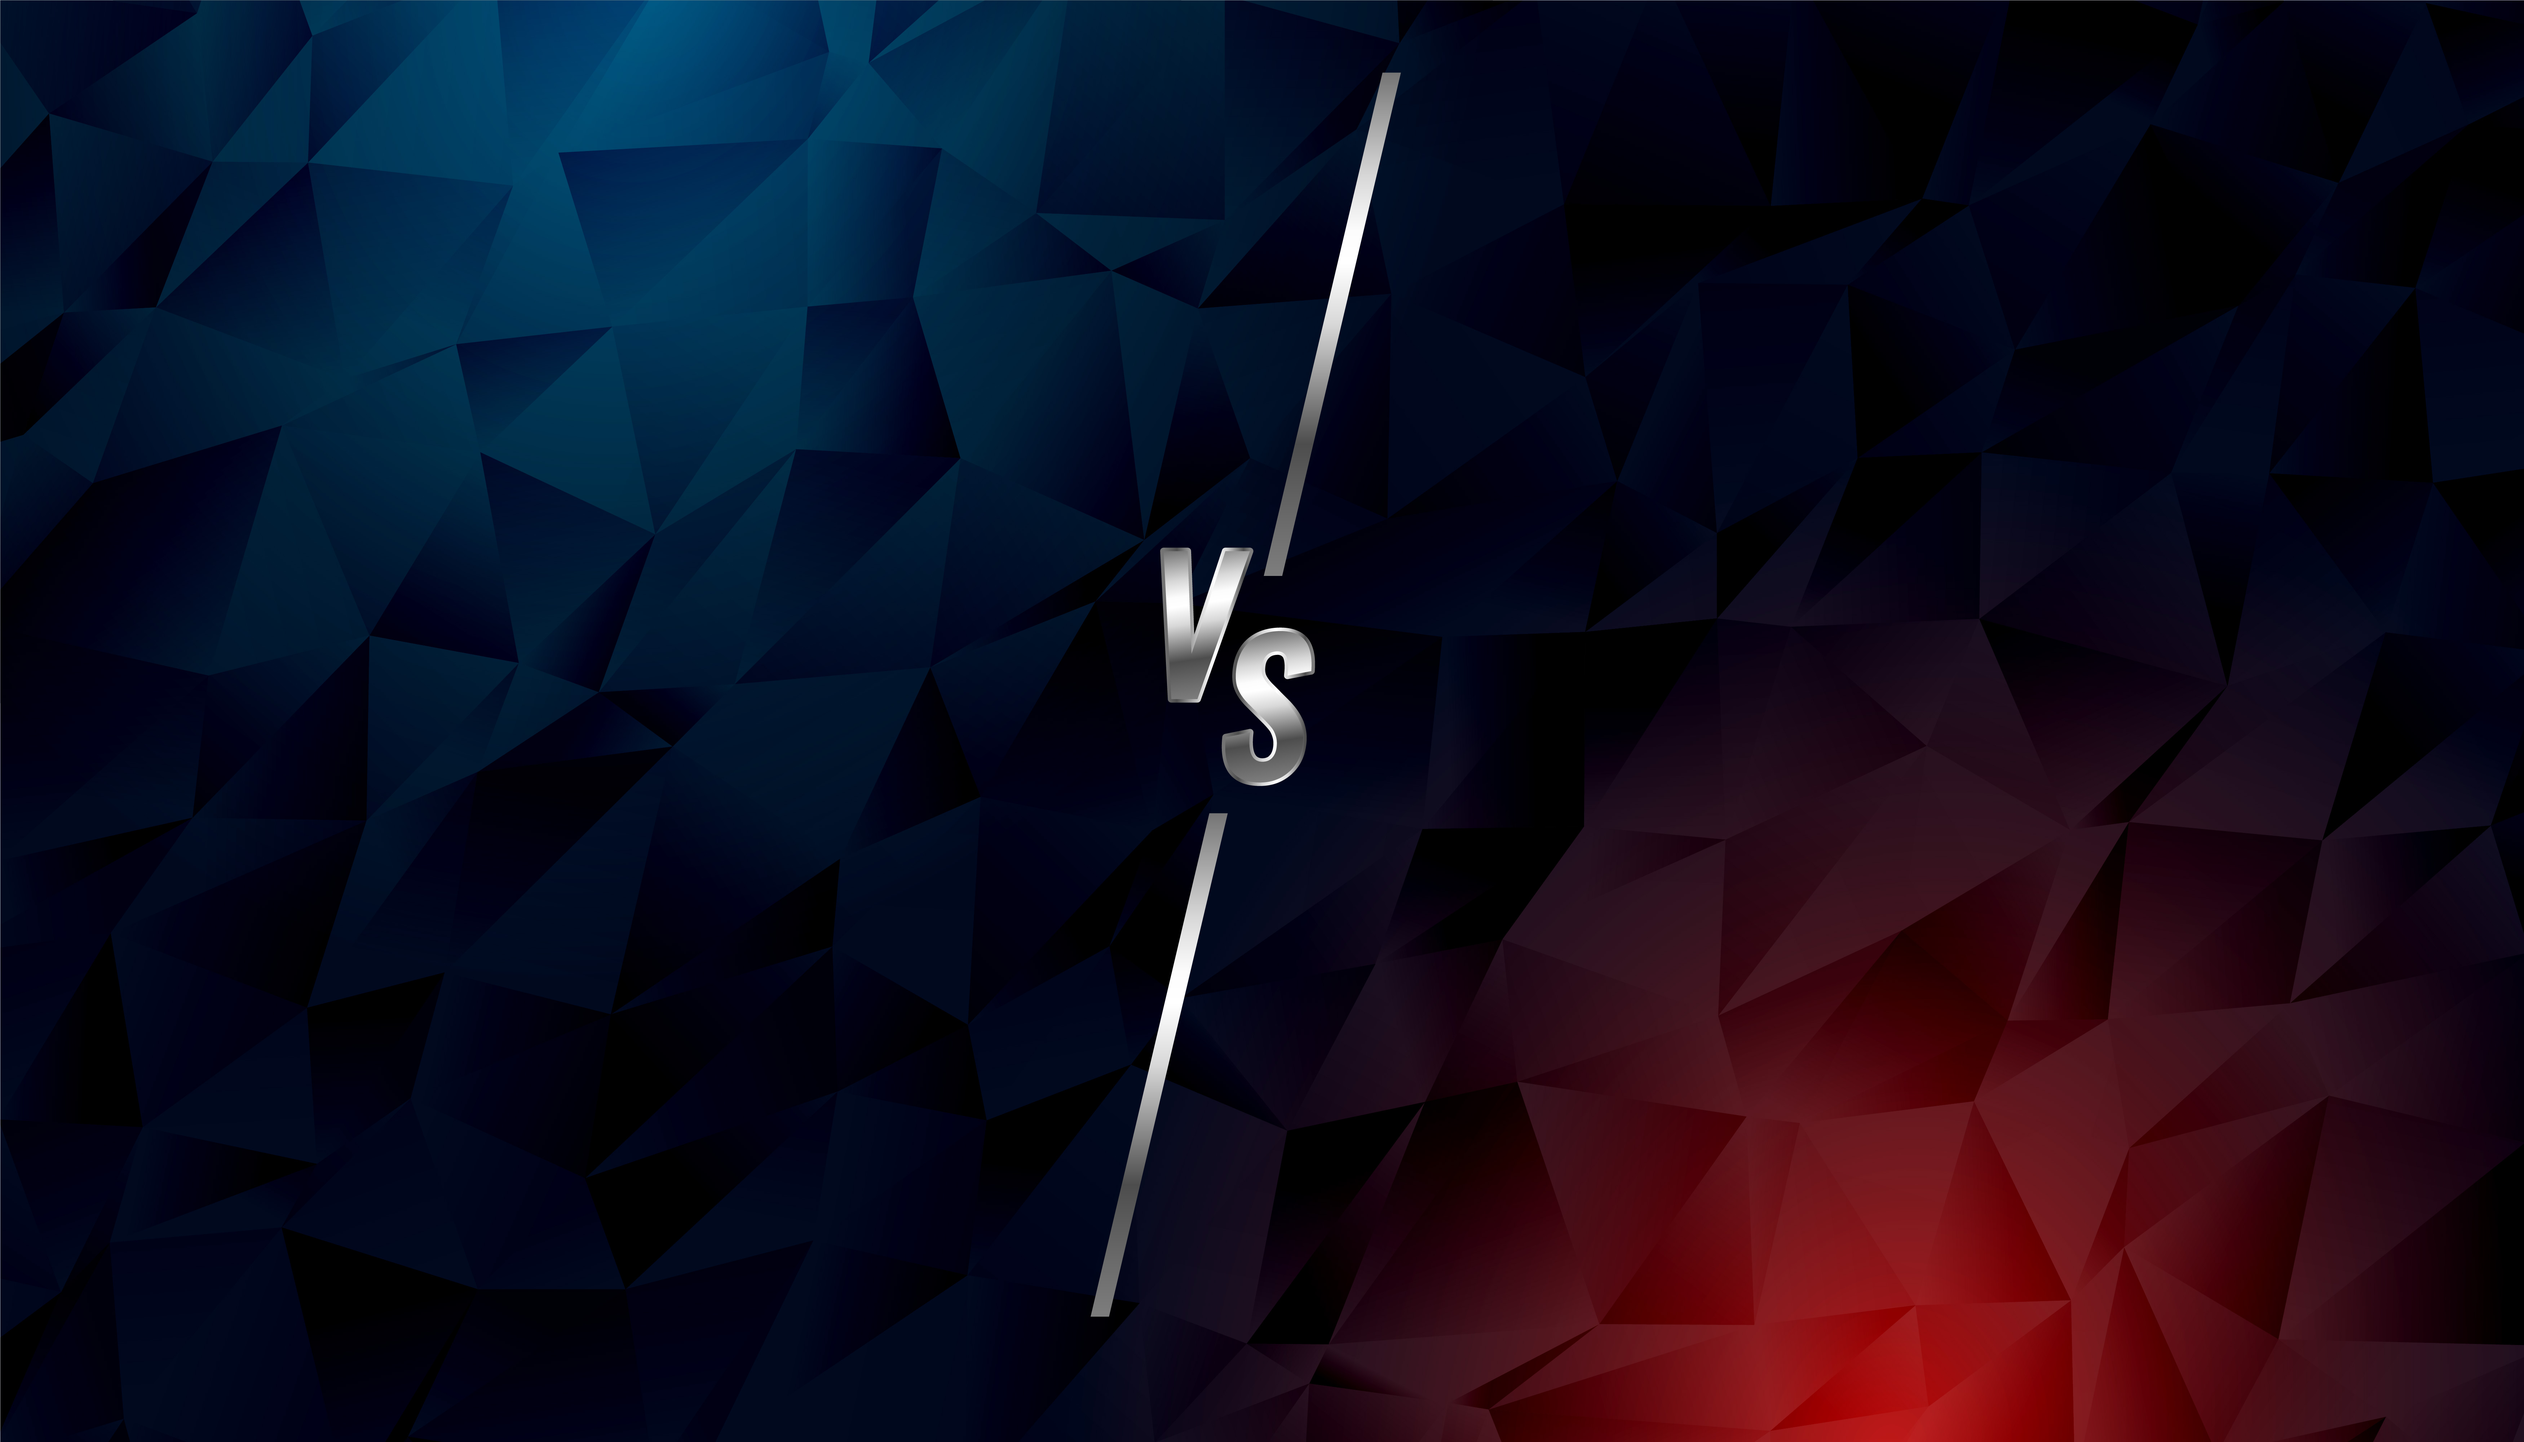
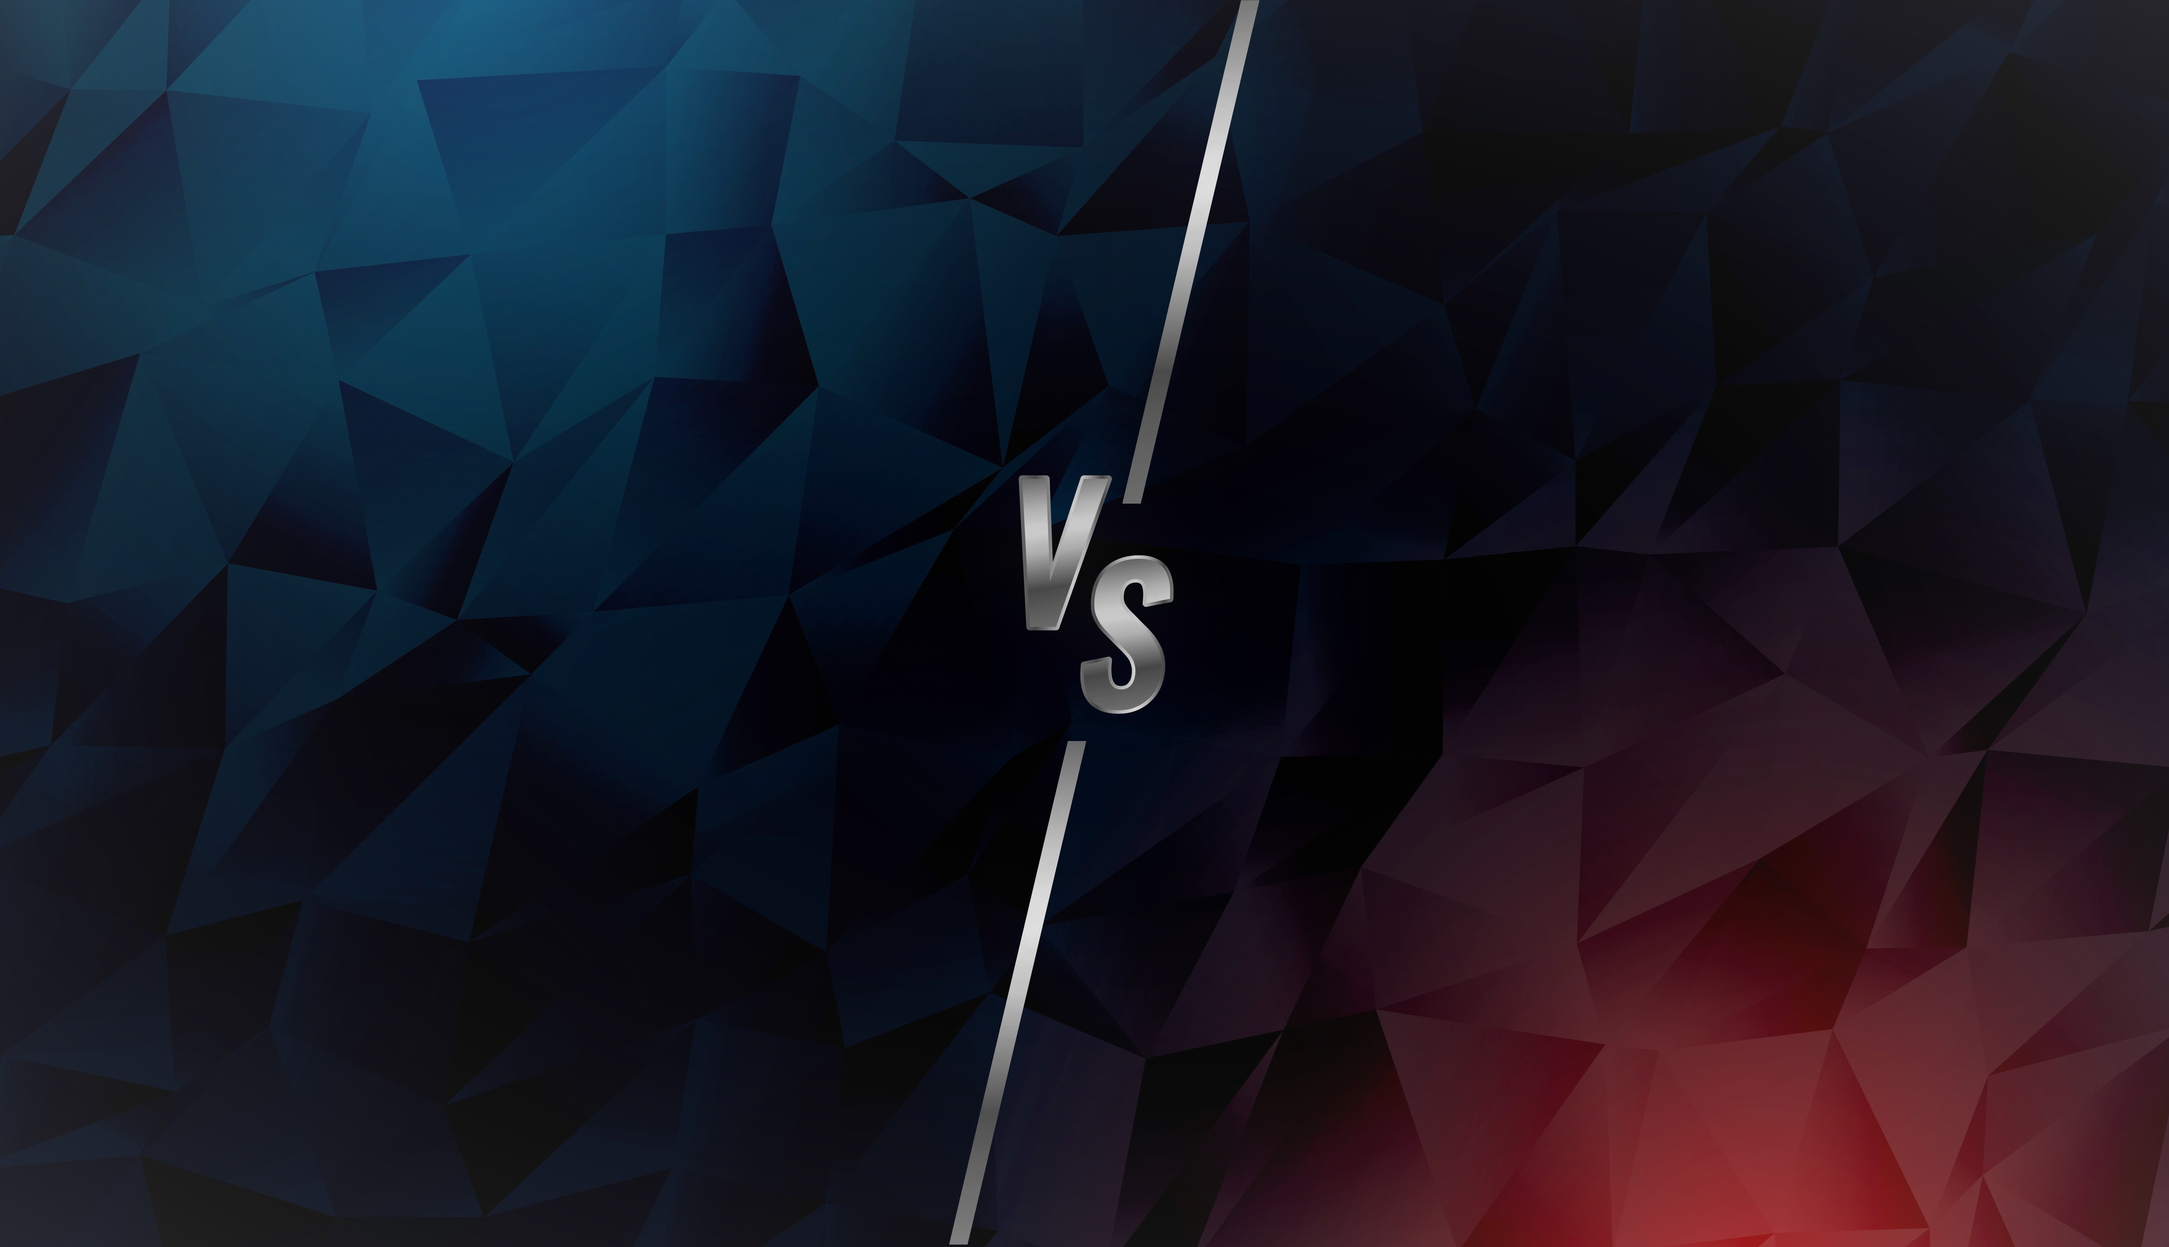
Updated Glitch

diff --git a/glitch.html b/glitch.html
@@ -7,6 +7,7 @@
   <meta name="viewport" content="width=device-width, initial-scale=1, shrink-to-fit=no">
 
   <link href="https://fonts.googleapis.com/css?family=Open+Sans:300,400,700,800" rel="stylesheet">
+  
 
   <link rel="stylesheet" href="css/animate.css">
   <link rel="stylesheet" href="css/owl.carousel.min.css">
@@ -78,6 +79,7 @@
               <a class="nav-link dropdown-toggle" href="subchapters.html" id="dropdown04" data-toggle="dropdown"
                 aria-haspopup="true" aria-expanded="false">Subchapters</a>
               <div class="dropdown-menu" aria-labelledby="dropdown04">
+                <a class="dropdown-item" href="glitch.html">GLITCH</a>
                 <a class="dropdown-item" href="subchapters.html">Quizzing and Literature</a>
                 <a class="dropdown-item" href="subchapters.html">SSS</a>
               </div>
@@ -94,19 +96,16 @@
     </nav>
   </header>
 
+  
+
  <!-- Header section -->
   <section class="home-slider owl-carousel">
-    <div class="slider-item" style="background-image: url('./images/GlitchPageImages/26141.jpg') ; height: 50%;">
+    <div class="slider-item" style="background-image: url('./images/GlitchPageImages/BackImg.jpg');">
       <div class="container">
         <div class="row slider-text align-items-center justify-content-center">
-          <div style="margin-left: 10px; ">
-              <!-- <img src="./images/GlitchPageImages/Glitch Logo.jpeg" style="height: 40%; width: 40%; display: block;"> -->
-              <p class="btn btn-white px-3 py-3" style="display: inline;">GLITCH – the Gaming Subchapter of BVCOE</p>
-            <!-- <p class="mb-5 sub-text">The amalgamation of technology and culture and with BVPCSI at the juncture, we
-              provide a cornucopia of opportunities to give you the best of both worlds.</p>
-            <p><a href="glitch.html" class="btn btn-white btn-outline-white px-3 py-3">Glitch</a> -->
-<!--               <a
-                href="techortreatteaser.html" class="btn btn-link btn-white">Glitch</a></p> -->
+          <div class="col-md-8 text-center col-sm-12 element-animate">
+            <h1>GLITCH</h1>
+            <p class="mb-5 sub-text">The Gaming Subchapter Of BVCOE</p>
           </div>
         </div>
       </div>

diff --git a/more.html b/more.html
@@ -78,6 +78,7 @@
               <a class="nav-link dropdown-toggle" href="subchapters.html" id="dropdown04" data-toggle="dropdown"
                 aria-haspopup="true" aria-expanded="false">Subchapters</a>
               <div class="dropdown-menu" aria-labelledby="dropdown04">
+                <a class="dropdown-item" href="glitch.html">GLITCH</a>
                 <a class="dropdown-item" href="subchapters.html">Quizzing and Literature</a>
                 <a class="dropdown-item" href="subchapters.html">SSS</a>
               </div>
@@ -96,17 +97,12 @@
 
  <!-- Header section -->
   <section class="home-slider owl-carousel">
-    <div class="slider-item" style="background-image: url('./images/GlitchPageImages/26141.jpg') ; height: 50%;">
+    <div class="slider-item" style="background-image: url('./images/GlitchPageImages/BackImg.jpg');">
       <div class="container">
         <div class="row slider-text align-items-center justify-content-center">
-          <div style="margin-left: 10px; ">
-              <!-- <img src="./images/GlitchPageImages/Glitch Logo.jpeg" style="height: 40%; width: 40%; display: block;"> -->
-              <p class="btn btn-white px-3 py-3" style="display: inline;">GLITCH – the Gaming Subchapter of BVCOE</p>
-            <!-- <p class="mb-5 sub-text">The amalgamation of technology and culture and with BVPCSI at the juncture, we
-              provide a cornucopia of opportunities to give you the best of both worlds.</p>
-            <p><a href="glitch.html" class="btn btn-white btn-outline-white px-3 py-3">Glitch</a> -->
-<!--               <a
-                href="techortreatteaser.html" class="btn btn-link btn-white">Glitch</a></p> -->
+          <div class="col-md-8 text-center col-sm-12 element-animate">
+            <h1>GLITCH</h1>
+            <p class="mb-5 sub-text">The Gaming Subchapter Of BVCOE</p>
           </div>
         </div>
       </div>

diff --git a/technical.html b/technical.html
@@ -48,6 +48,7 @@
               <li class="nav-item dropdown">
                 <a class="nav-link dropdown-toggle" href="subchapters.html" id="dropdown04" data-toggle="dropdown" aria-haspopup="true" aria-expanded="false">Subchapters</a>
                 <div class="dropdown-menu" aria-labelledby="dropdown04">
+                  <a class="dropdown-item" href="glitch.html">GLITCH</a>
                   <a class="dropdown-item" href="subchapters.html">Quizzing and Literature</a>
                   <a class="dropdown-item" href="subchapters.html">SSS</a>
                 </div>

diff --git a/index.html b/index.html
@@ -64,6 +64,7 @@
               <a class="nav-link dropdown-toggle" href="subchapters.html" id="dropdown04" data-toggle="dropdown"
                 aria-haspopup="true" aria-expanded="false">Subchapters</a>
               <div class="dropdown-menu" aria-labelledby="dropdown04">
+                <a class="dropdown-item" href="glitch.html">GLITCH</a>
                 <a class="dropdown-item" href="subchapters.html">Quizzing and Literature</a>
                 <a class="dropdown-item" href="subchapters.html">SSS</a>
               </div>

diff --git a/css/glitch.css b/css/glitch.css
@@ -292,7 +292,7 @@
     height: 100%;
     /* height: 80vh; */
     padding: 10rem 2rem;
-    background: var(--main-blue);
+    background-color: var(--main-gray);
   }
   
   .about-section-header {
@@ -308,6 +308,13 @@
     padding-bottom: 250px;
   }
   
+
+  .about-left-left{
+    width: 70%;
+    float: left;
+    text-align: center;
+  }
+
   .about-right {
     width: 70%;
     float: right;

diff --git a/css/style.css b/css/style.css
@@ -9850,7 +9850,7 @@ header .navbar .cta-btn a:hover {
   background-repeat: no-repeat;
   background-position: center center;
   height: calc(100vh - 217px);
-  min-height: 700px;
+  min-height: 500px;
   position: relative;
 }
 
